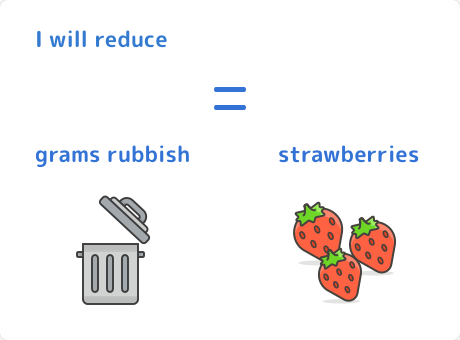
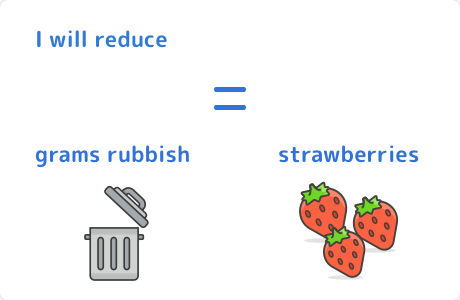
calculator and quiz page modify

diff --git a/src/calculator.css b/src/calculator.css
@@ -36,14 +36,14 @@
 }
 
 #card_01{
-  width: 624px;
-  height: 192px;
+  width: 648px;
+  height: 202px;
   margin-top: 20px
 }
 
 #card_02{
   width: 352px;
-  height: 192px;
+  height: 228px;
   -webkit-animation: smooth 0.8s ease-in;
   -moz-animation: smooth 0.8s ease-in;
   -o-animation: smooth 0.8s ease-in;
@@ -53,7 +53,7 @@
 
 #card_03{
   width: 352px;
-  height: 192px;
+  height: 228px;
   margin-left: 20px;
   -webkit-animation: smooth 2s ease-in;
   -moz-animation: smooth 2s ease-in;
@@ -82,7 +82,7 @@
 #showFst{
   position: absolute;
   left: 483px;
-  bottom: 103px;
+  bottom: 123px;
   color:rgb(0, 110, 255);
   font-size: 3em;
   -webkit-animation: smooth 1s ease-in;
@@ -95,7 +95,7 @@
 #show2nd{
   position: absolute;
   left: 56px;
-  bottom: 86px;
+  bottom: 97px;
   color:rgb(0, 110, 255);
   font-size: 3em;
 }
@@ -112,7 +112,7 @@
 
 #arrow_01{
   position: absolute;
-  bottom: 204px;
+  bottom: 232px;
   left: 342px;
   height:50px;
   width: 50px;
@@ -125,7 +125,7 @@
 
 #arrow_02{
   position: absolute;
-  top: 189px;
+  top: 226px;
   right: -5px;
   height:21px;
   width: 78px;
@@ -139,7 +139,7 @@
 #arrow_03{
   position: absolute;
   left: -324px;
-  bottom: 205px;
+  bottom: 232px;
   height:50px;
   width: 50px;
   -webkit-animation: smooth 2.5s ease-in;
@@ -313,7 +313,7 @@
 
   #straws{
     position:absolute;
-    bottom: 107px;
+    bottom: 123px;
     left:662px;
     color:rgb(0, 110, 255);
     font-size: 3em;
@@ -326,11 +326,10 @@
 
   #day{
     position:absolute;
-    bottom: 40px;
+    bottom: 21px;
     left:500px;
     color:rgb(0, 110, 255);
-    font-weight: bold;
-    font-size:25px;
+    font-size:3em;
   }
 
   .text_btn{

diff --git a/src/containers/story_box.js b/src/containers/story_box.js
@@ -19,7 +19,7 @@ const StoryContainer = styled.div`
     flex-direction: row;
 `;
 
-//style componet to story right sider bar to include story input btns
+//style componet to story left sider bar to include story input btns
 const StoryLeftSider = styled.div`
     background: #d3fff6;
     border-radius: 8px;
@@ -52,7 +52,7 @@ class StoryBoxComponent extends Component {
         this.state = {
             inputIndex: null,
             inputType: null,
-            isStoryPlaying: false,
+            isStoryPlaying: false,//check current story playing or not to control button ocupacity
             boxKey: 0,
             badAnimationCounter: 0,
             goodAnimationCounter: 0,

diff --git a/src/components/calculator.js b/src/components/calculator.js
@@ -183,7 +183,7 @@ class Calculator extends Component {
   render() {
     //return the initial HTML part
     return (
-        <div style={{width: 815, height: 520, backgroundImage: `url(${require('../static/calculator_element/Calculator_background.png')})`}}>
+        <div style={{width: 815, height: 541, backgroundImage: `url(${require('../static/calculator_element/Calculator_background.png')})`}}>
             <img id="card_01" src={require('../static/calculator_element/card_01.png')} />
             <div style={{position: 'relative', height: 0}}>
               <img id="happy_01" src={require('../static/calculator_element/Story1_Habit1_happy_1.png')}/>

diff --git a/src/components/habit_item.js b/src/components/habit_item.js
@@ -27,9 +27,9 @@ class HabitItem extends Component{
     changeHabitImg() {
         this.setState({renderCounter: this.state.renderCounter + 1});
         if(this.state.renderCounter > this.imgs.length-1) {
-            if(this.props.onAnimationFinished){
+            // if(this.props.onAnimationFinished){
                 this.props.onAnimationFinished();
-            }
+            // }
         } else {
             this.setState( ({ imgIndex }) => {
                 const nextImgIndex = ++imgIndex % this.imgs.length
